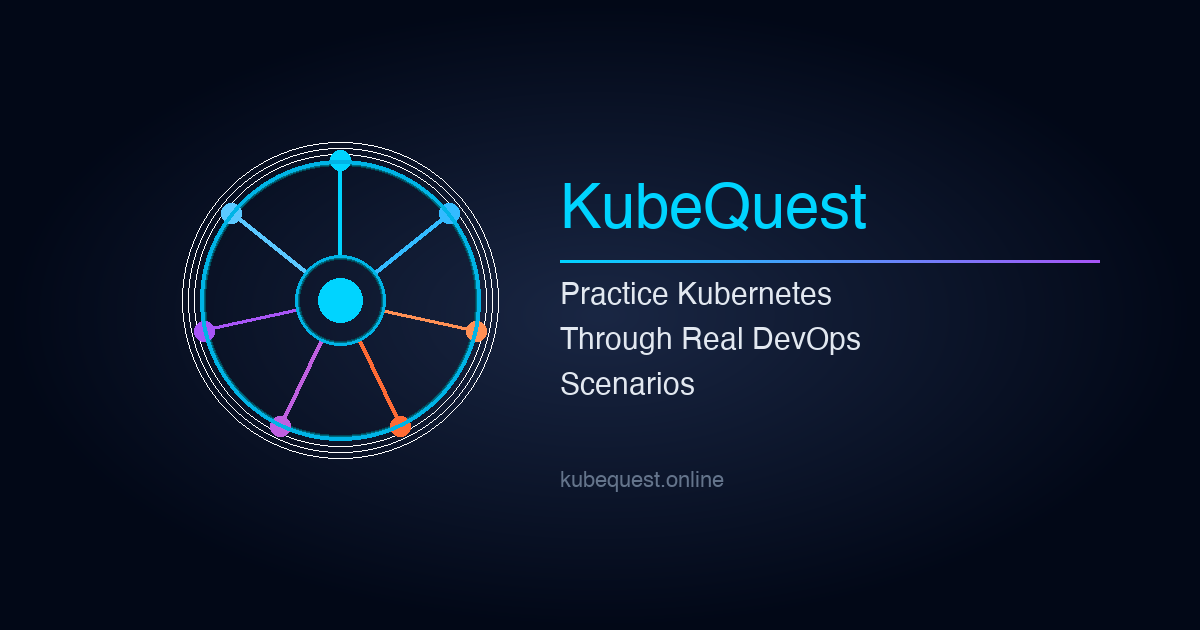
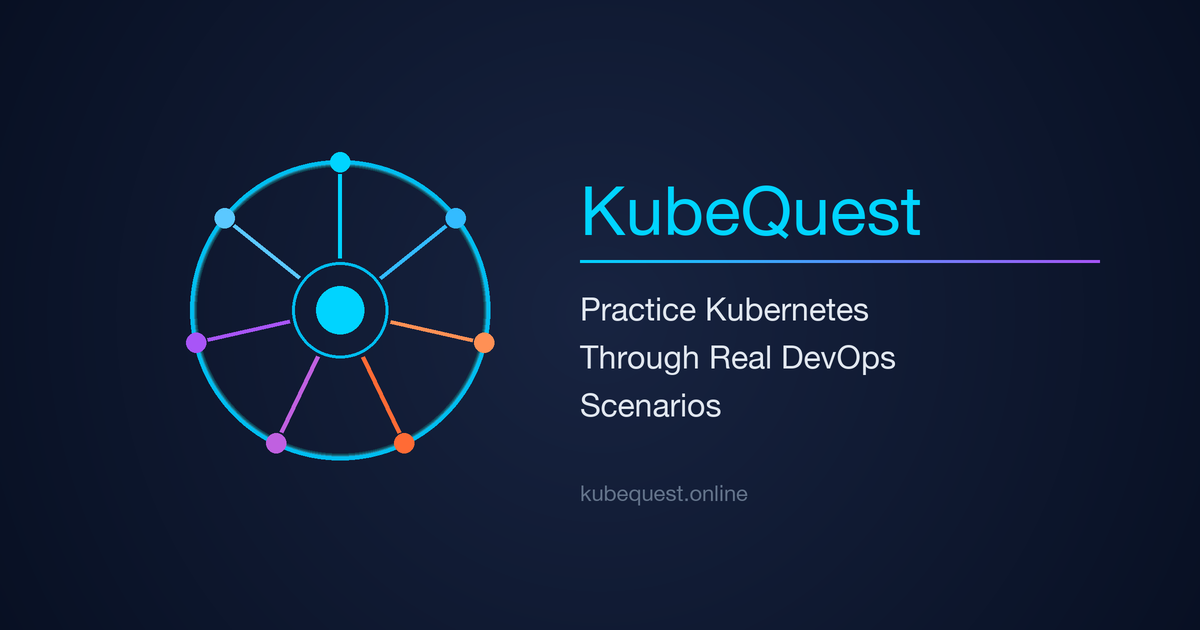
Remove rocket emoji from share text, sharpen preview image

diff --git a/src/App.jsx b/src/App.jsx
@@ -2593,7 +2593,7 @@ const displayName = isGuest ? t("guestName") : (user?.user_metadata?.username ||
           </button>
           <button onClick={()=>{
             const url="https://kubequest.online";
-            const text=lang==="en"?"KubeQuest – Practice Kubernetes Through Real DevOps Scenarios 🚀":"מצאתי דרך נחמדה לתרגל Kubernetes. משחק עם שאלות DevOps ותרחישי troubleshooting אמיתיים 🚀";
+            const text=lang==="en"?"KubeQuest – Practice Kubernetes Through Real DevOps Scenarios":"מצאתי דרך נחמדה לתרגל Kubernetes. משחק עם שאלות DevOps ותרחישי troubleshooting אמיתיים";
             if(navigator.share){navigator.share({title:"KubeQuest",text,url}).catch(()=>{});}
             else{navigator.clipboard?.writeText(url);}
             setShowMenu(false);
@@ -3304,7 +3304,7 @@ kubectl get pods -o jsonpath='{.items[*].metadata.name}'`},
           <div style={{marginTop:16,textAlign:"center"}}>
             <button onClick={()=>{
               const url="https://kubequest.online";
-              const text=lang==="en"?"KubeQuest – Practice Kubernetes Through Real DevOps Scenarios 🚀":"מצאתי דרך נחמדה לתרגל Kubernetes. משחק עם שאלות DevOps ותרחישי troubleshooting אמיתיים 🚀";
+              const text=lang==="en"?"KubeQuest – Practice Kubernetes Through Real DevOps Scenarios":"מצאתי דרך נחמדה לתרגל Kubernetes. משחק עם שאלות DevOps ותרחישי troubleshooting אמיתיים";
               if(navigator.share){navigator.share({title:"KubeQuest",text,url}).catch(()=>{});}
               else{navigator.clipboard?.writeText(url);}
             }} style={{padding:"10px 24px",background:"linear-gradient(135deg,rgba(0,212,255,0.1),rgba(168,85,247,0.1))",border:"1px solid rgba(0,212,255,0.25)",borderRadius:10,color:"#00D4FF",fontSize:13,fontWeight:700,cursor:"pointer"}}>
